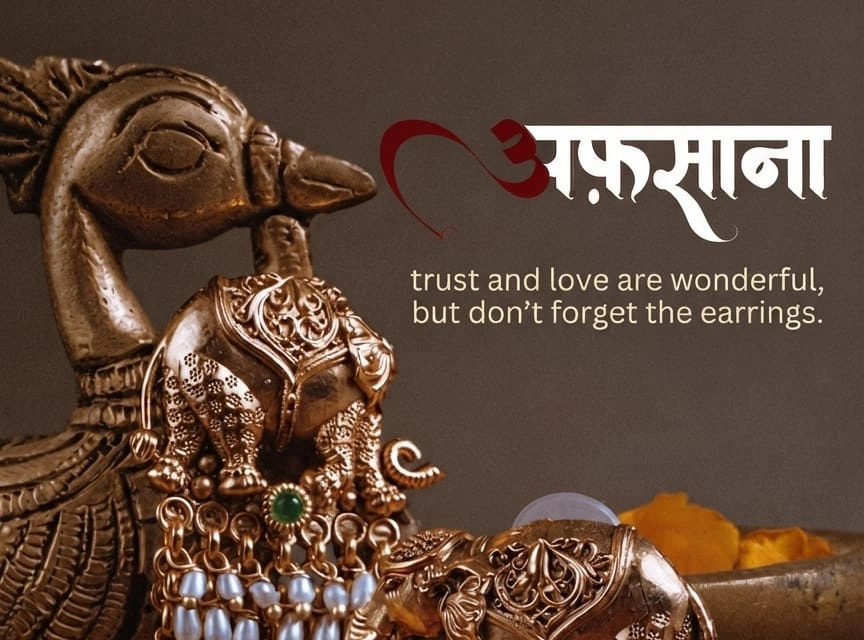
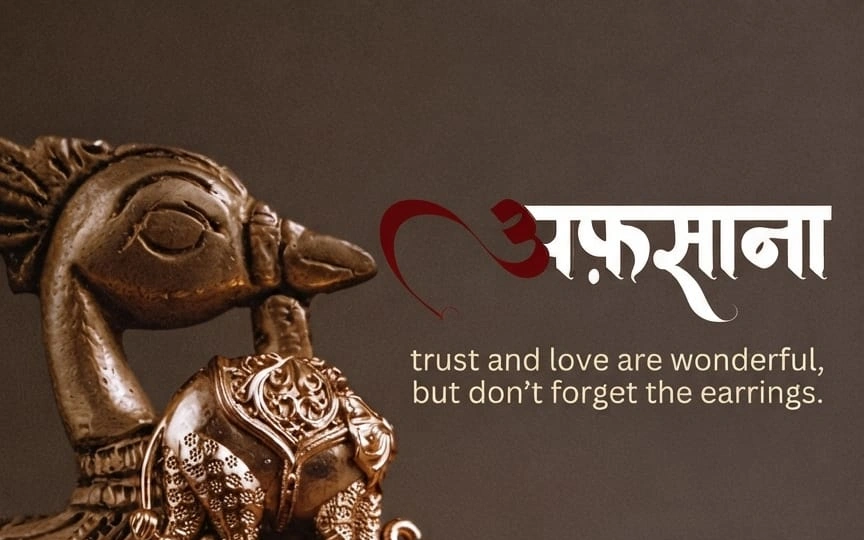
Align story section cards with flush top/bottom edges and fix text clipping

diff --git a/src/components/StorySection.tsx b/src/components/StorySection.tsx
@@ -14,17 +14,17 @@ export const StorySection: React.FC<StorySectionProps> = ({ onSelectStory }) => 
   return (
     <section className="w-full bg-[#FAE7D8] px-3 sm:px-4 md:px-6 py-3 sm:py-5">
       <div className="max-w-7xl mx-auto">
-        {/* Exact 3-Card Layout matching design reference:
-            Left: Tall Swarn Shringaar card (spans 2 rows on desktop)
-            Right Top: Afsana / Parampara card
-            Right Bottom: Chhankaar card
+        {/* Perfectly Aligned Bento Layout:
+            Left Column: Swarn Shringaar (aspect-[1122/1402])
+            Right Column: Two equal-height cards (Afsana top, Chhankaar bottom)
+            Both columns match height to the pixel with flush top and bottom edges.
         */}
-        <div className="grid grid-cols-1 md:grid-cols-2 md:grid-rows-2 gap-2.5 sm:gap-3 md:gap-3.5">
+        <div className="grid grid-cols-1 md:grid-cols-2 gap-3 sm:gap-3.5 md:gap-4 items-stretch">
           
-          {/* 1. Left Card: Swarn Shringaar (Spans 2 rows on desktop) */}
+          {/* 1. Left Column Card: Swarn Shringaar */}
           <div
             onClick={() => onSelectStory(mainStory)}
-            className="md:row-span-2 group relative cursor-pointer overflow-hidden rounded-[10px] sm:rounded-[12px] md:rounded-[14px] shadow-[0_4px_16px_rgba(42,22,18,0.18)] hover:shadow-[0_8px_24px_rgba(184,138,59,0.30)] border border-[#B88A3B]/30 hover:border-[#D8B477] transition-all duration-300 aspect-[370/313] md:aspect-auto bg-[#1A0C0A] flex items-center justify-center active:scale-[0.99]"
+            className="group relative cursor-pointer overflow-hidden rounded-[10px] sm:rounded-[12px] md:rounded-[14px] shadow-[0_4px_16px_rgba(42,22,18,0.18)] hover:shadow-[0_8px_24px_rgba(184,138,59,0.30)] border border-[#B88A3B]/30 hover:border-[#D8B477] transition-all duration-300 aspect-[1122/1402] bg-[#1A0C0A] flex items-center justify-center active:scale-[0.99] w-full"
             title={mainStory.englishSub}
           >
             <picture className="w-full h-full">
@@ -39,40 +39,43 @@ export const StorySection: React.FC<StorySectionProps> = ({ onSelectStory }) => 
             <div className="absolute inset-0 bg-[#B88A3B]/0 group-hover:bg-[#B88A3B]/5 transition-colors duration-300 pointer-events-none" />
           </div>
 
-          {/* 2. Top-Right Card: Afsana & Parampara */}
-          <div
-            onClick={() => onSelectStory(paramparaStory)}
-            className="group relative cursor-pointer overflow-hidden rounded-[10px] sm:rounded-[12px] md:rounded-[14px] shadow-[0_4px_16px_rgba(42,22,18,0.18)] hover:shadow-[0_8px_24px_rgba(184,138,59,0.30)] border border-[#B88A3B]/30 hover:border-[#D8B477] transition-all duration-300 aspect-[361/154] bg-[#1A0C0A] flex items-center justify-center active:scale-[0.99]"
-            title={paramparaStory.englishSub}
-          >
-            <picture className="w-full h-full">
-              <source srcSet="/assets/story/afsana_story_hd.webp" type="image/webp" />
-              <img
-                src="/assets/story/afsana_story_hd.jpg"
-                alt="Afsana - Trust and love are wonderful, but don't forget the earrings."
-                className="w-full h-full object-cover object-center transition-transform duration-700 group-hover:scale-[1.02]"
-                loading="lazy"
-              />
-            </picture>
-            <div className="absolute inset-0 bg-[#B88A3B]/0 group-hover:bg-[#B88A3B]/5 transition-colors duration-300 pointer-events-none" />
-          </div>
+          {/* 2. Right Column: Stacked Cards (Afsana & Chhankaar) */}
+          <div className="flex flex-col gap-3 sm:gap-3.5 md:gap-4 justify-between h-full">
+            {/* Top Card: Afsana & Parampara */}
+            <div
+              onClick={() => onSelectStory(paramparaStory)}
+              className="flex-1 w-full group relative cursor-pointer overflow-hidden rounded-[10px] sm:rounded-[12px] md:rounded-[14px] shadow-[0_4px_16px_rgba(42,22,18,0.18)] hover:shadow-[0_8px_24px_rgba(184,138,59,0.30)] border border-[#B88A3B]/30 hover:border-[#D8B477] transition-all duration-300 aspect-[1.6/1] md:aspect-auto bg-[#1A0C0A] flex items-center justify-center active:scale-[0.99]"
+              title={paramparaStory.englishSub}
+            >
+              <picture className="w-full h-full">
+                <source srcSet="/assets/story/afsana_story_hd.webp" type="image/webp" />
+                <img
+                  src="/assets/story/afsana_story_hd.jpg"
+                  alt="Afsana - Trust and love are wonderful, but don't forget the earrings."
+                  className="w-full h-full object-cover object-center transition-transform duration-700 group-hover:scale-[1.02]"
+                  loading="lazy"
+                />
+              </picture>
+              <div className="absolute inset-0 bg-[#B88A3B]/0 group-hover:bg-[#B88A3B]/5 transition-colors duration-300 pointer-events-none" />
+            </div>
 
-          {/* 3. Bottom-Right Card: Chhankaar */}
-          <div
-            onClick={() => onSelectStory(chhankaarStory)}
-            className="group relative cursor-pointer overflow-hidden rounded-[10px] sm:rounded-[12px] md:rounded-[14px] shadow-[0_4px_16px_rgba(42,22,18,0.18)] hover:shadow-[0_8px_24px_rgba(184,138,59,0.30)] border border-[#B88A3B]/30 hover:border-[#D8B477] transition-all duration-300 aspect-[361/155] bg-[#1A0C0A] flex items-center justify-center active:scale-[0.99]"
-            title={chhankaarStory.englishSub}
-          >
-            <picture className="w-full h-full">
-              <source srcSet="/assets/story/chhankaar_story_hd.webp" type="image/webp" />
-              <img
-                src="/assets/story/chhankaar_story_hd.jpg"
-                alt="Chhankaar - Grace begins where the payal sings."
-                className="w-full h-full object-cover object-center transition-transform duration-700 group-hover:scale-[1.02]"
-                loading="lazy"
-              />
-            </picture>
-            <div className="absolute inset-0 bg-[#B88A3B]/0 group-hover:bg-[#B88A3B]/5 transition-colors duration-300 pointer-events-none" />
+            {/* Bottom Card: Chhankaar */}
+            <div
+              onClick={() => onSelectStory(chhankaarStory)}
+              className="flex-1 w-full group relative cursor-pointer overflow-hidden rounded-[10px] sm:rounded-[12px] md:rounded-[14px] shadow-[0_4px_16px_rgba(42,22,18,0.18)] hover:shadow-[0_8px_24px_rgba(184,138,59,0.30)] border border-[#B88A3B]/30 hover:border-[#D8B477] transition-all duration-300 aspect-[1.6/1] md:aspect-auto bg-[#1A0C0A] flex items-center justify-center active:scale-[0.99]"
+              title={chhankaarStory.englishSub}
+            >
+              <picture className="w-full h-full">
+                <source srcSet="/assets/story/chhankaar_story_hd.webp" type="image/webp" />
+                <img
+                  src="/assets/story/chhankaar_story_hd.jpg"
+                  alt="Chhankaar - Grace begins where the payal sings."
+                  className="w-full h-full object-cover object-center transition-transform duration-700 group-hover:scale-[1.02]"
+                  loading="lazy"
+                />
+              </picture>
+              <div className="absolute inset-0 bg-[#B88A3B]/0 group-hover:bg-[#B88A3B]/5 transition-colors duration-300 pointer-events-none" />
+            </div>
           </div>
 
         </div>
